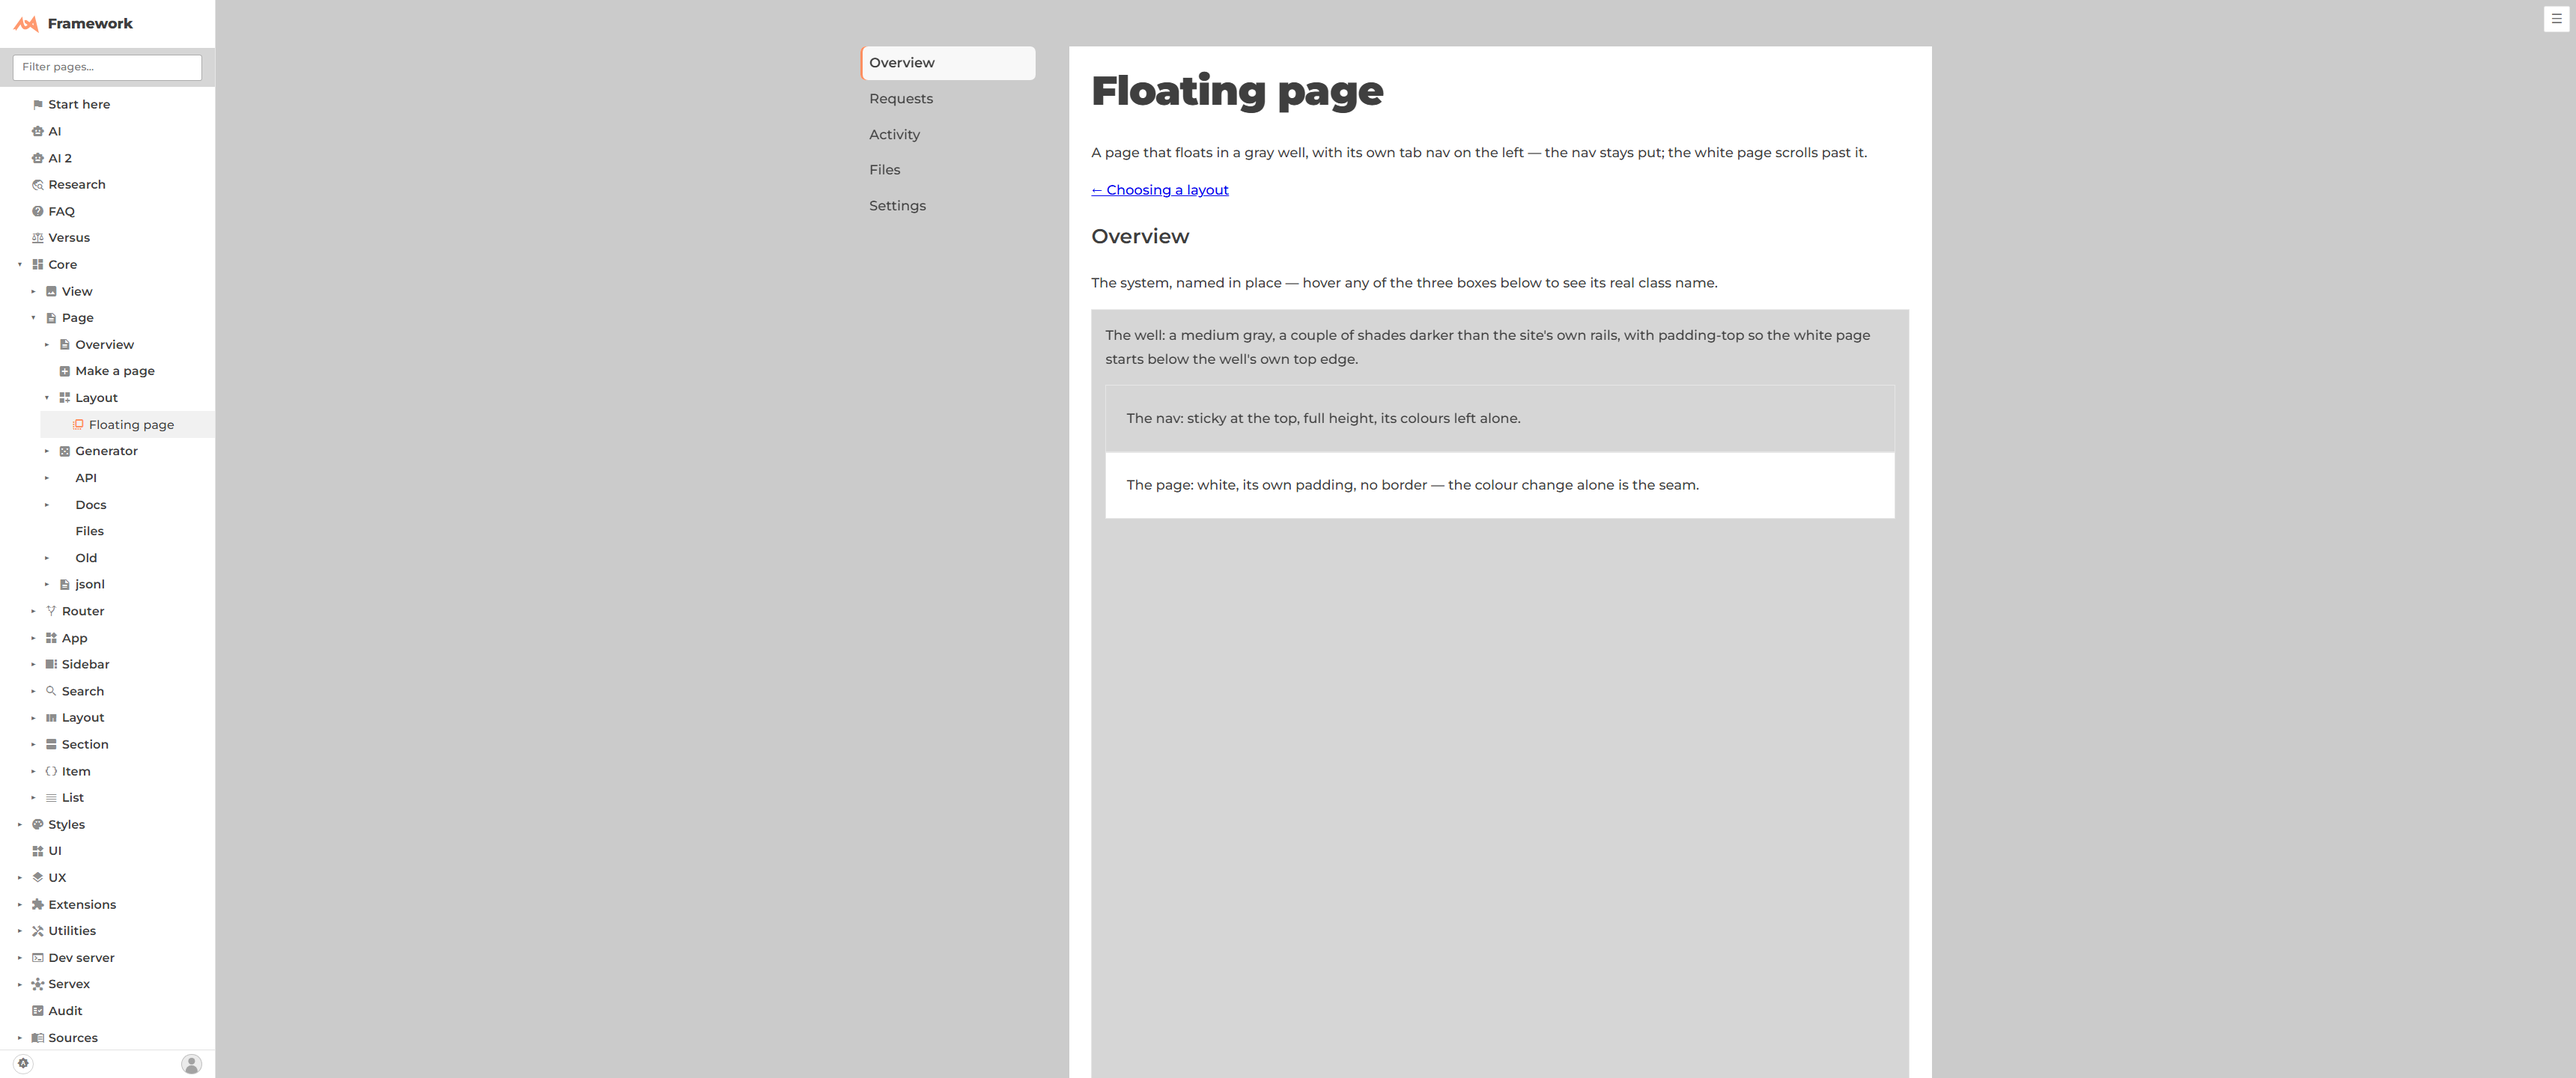
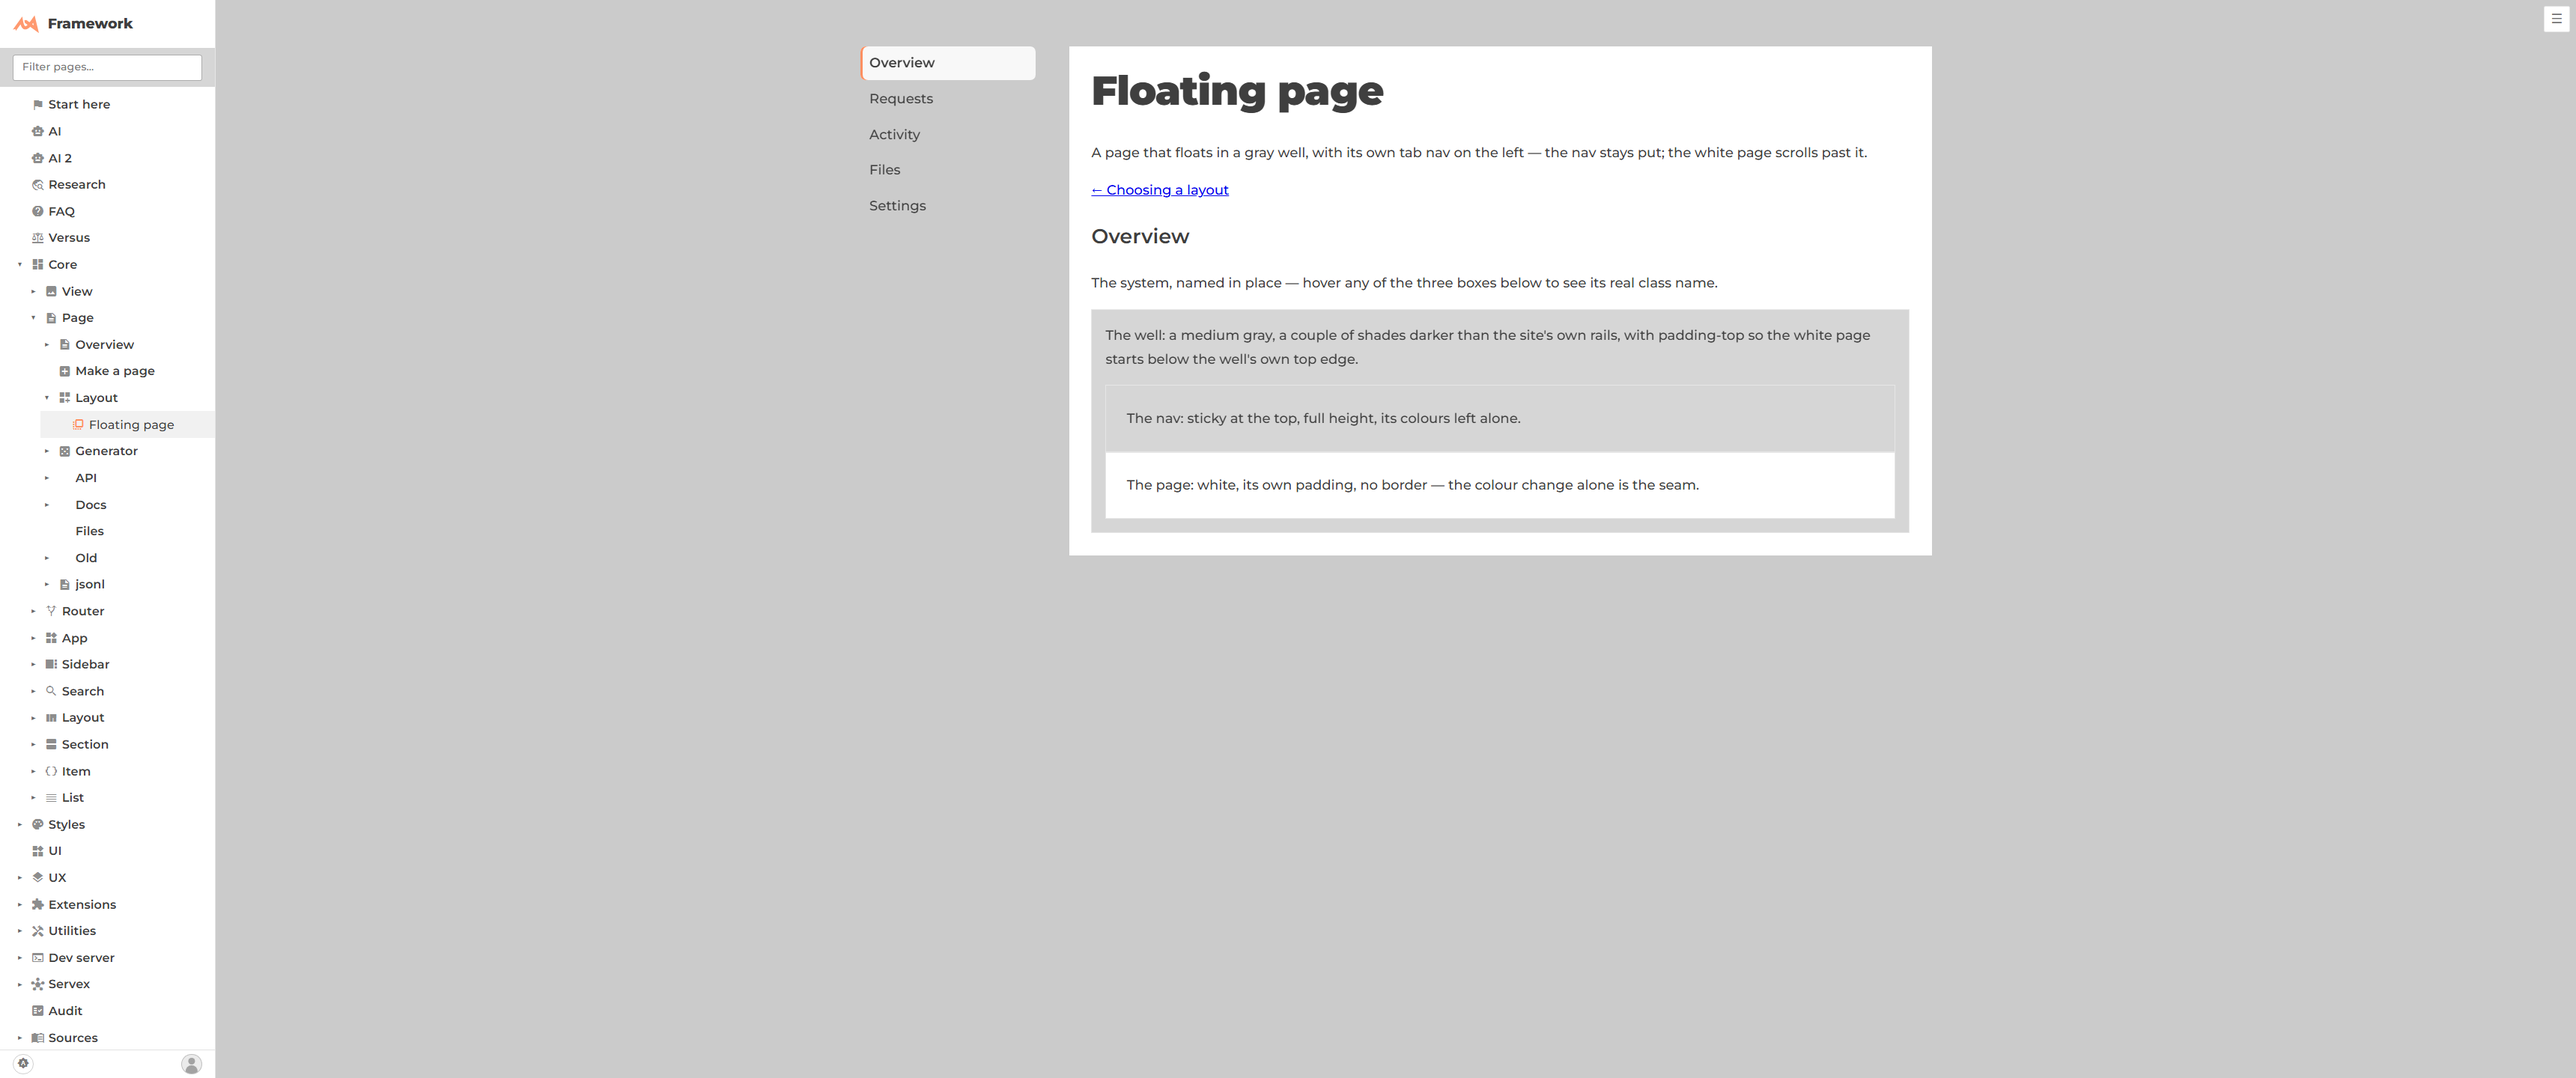
Floating page: scope the full-height rule off the ui/section diagram
.floating-well's min-height floor was reaching the Overview tab's own
illustrative "well" box (wrapped in ui/section to show its class name),
stretching a 60px diagram into a ~700px gray box. Scoped the rule to
:not(.ui-section), which only the real, live well ever carries, so the
diagram now hugs its own content. Re-shot all four floating-*.png.

Changed region(s): [[0.4044, 0.4688, 0.7776, 1.0]]

diff --git a/public/framework/core/Page/layout/floating/floating.js b/public/framework/core/Page/layout/floating/floating.js
@@ -105,19 +105,28 @@ Floating.css = `
 		background: var(--fill-a16);
 		padding: var(--pad);
 		padding-top: var(--pad);
-		/* Fills the whole region at rest, even when the current tab is short. NOT a
-		   percentage: this box's ancestor is a CSS-grid row sized "auto" (Page.css sets
-		   grid-template-columns for its main/wide/bleed tracks, never grid-template-rows),
-		   so a row holding only this box sizes to ITS content and a percentage height on
-		   this box has nothing definite to be a percentage OF — both resolve to each
-		   other and the well ends up content-height, not full-bleed (found live, 2026-09-29:
-		   a 656px-tall well in a 1080px-tall page). 100dvh sidesteps that: a caller whose
-		   region is not the full viewport (AI 2's workspace, a smaller panel) overrides it
-		   by declaring --floating-min-height on any ancestor.
-		   The extra + var(--pad) is on purpose too: without it, a short tab's well is
-		   EXACTLY one screen tall and there is nothing left to scroll, so the "the top
-		   edge clips away as you scroll" behaviour would have nothing to demonstrate it
-		   on. One padding's worth of headroom guarantees a short tab still scrolls. */
+	}
+	/* Fills the whole region at rest, even when the current tab is short. NOT a
+	   percentage: this box's ancestor is a CSS-grid row sized "auto" (Page.css sets
+	   grid-template-columns for its main/wide/bleed tracks, never grid-template-rows),
+	   so a row holding only this box sizes to ITS content and a percentage height on
+	   this box has nothing definite to be a percentage OF — both resolve to each
+	   other and the well ends up content-height, not full-bleed (found live, 2026-09-29:
+	   a 656px-tall well in a 1080px-tall page). 100dvh sidesteps that: a caller whose
+	   region is not the full viewport (AI 2's workspace, a smaller panel) overrides it
+	   by declaring --floating-min-height on any ancestor.
+	   The extra + var(--pad) is on purpose too: without it, a short tab's well is
+	   EXACTLY one screen tall and there is nothing left to scroll, so the "the top
+	   edge clips away as you scroll" behaviour would have nothing to demonstrate it on.
+	   One padding's worth of headroom guarantees a short tab still scrolls.
+	   The :not(.ui-section) is load-bearing — a page that explains this component by
+	   wrapping a SECOND, illustrative "floating-well" in ui/section (core/Page/layout/
+	   floating/page.js's own Overview tab does exactly this) is not the real thing, and
+	   this rule must not reach it: found live, 2026-09-29, a 700px gray gap under a
+	   60px diagram box, because the diagram's own label box inherited a floor meant only
+	   for the real one. ui/section always adds "ui-section" alongside the classes it is
+	   asked to label, so that is the one reliable way to tell the two apart. */
+	.floating-well:not(.ui-section) {
 		min-height: calc(var(--floating-min-height, 100dvh) + var(--pad));
 	}
 	.floating {
